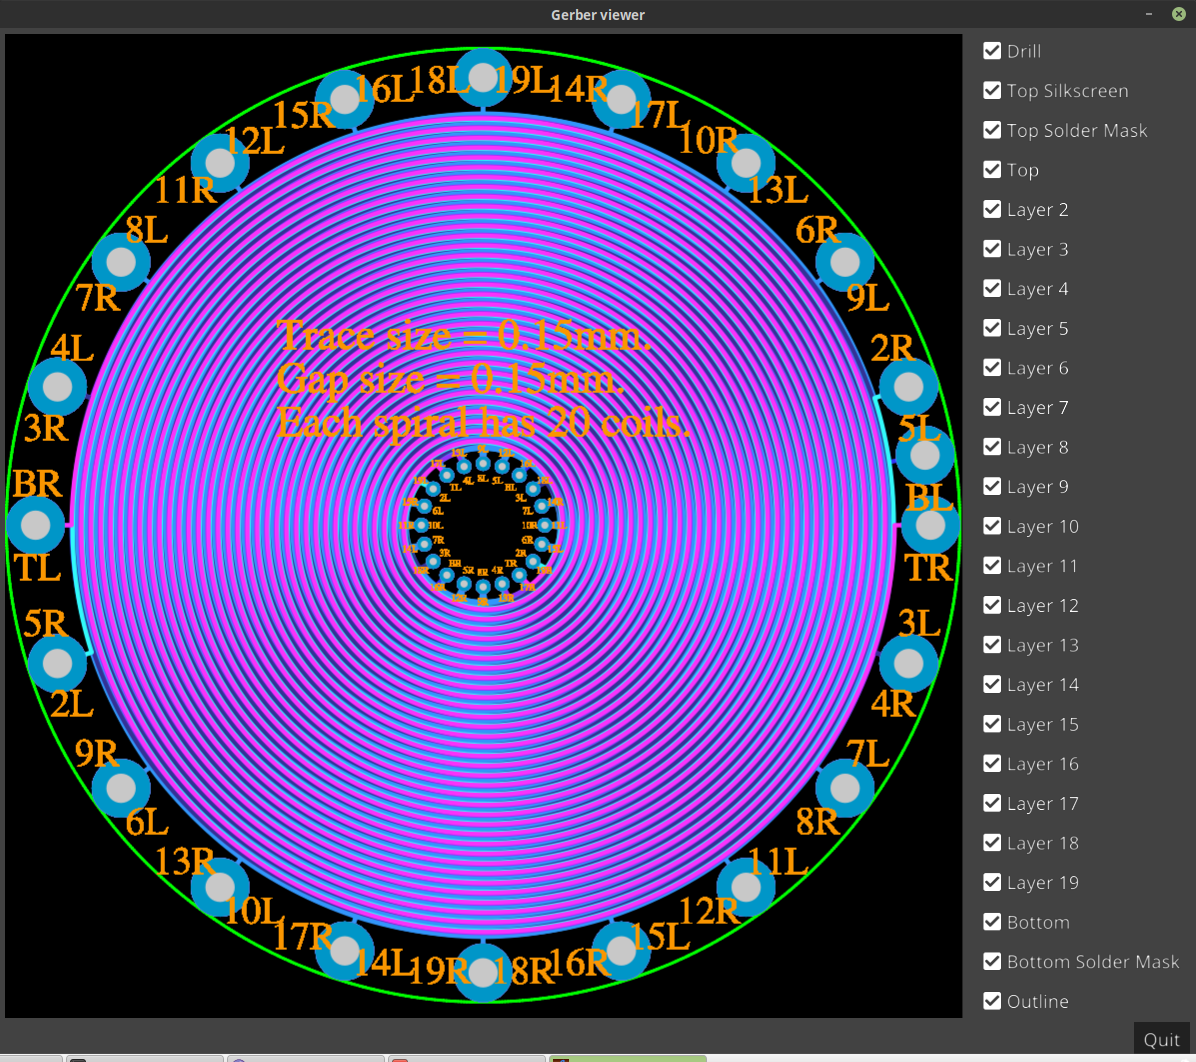
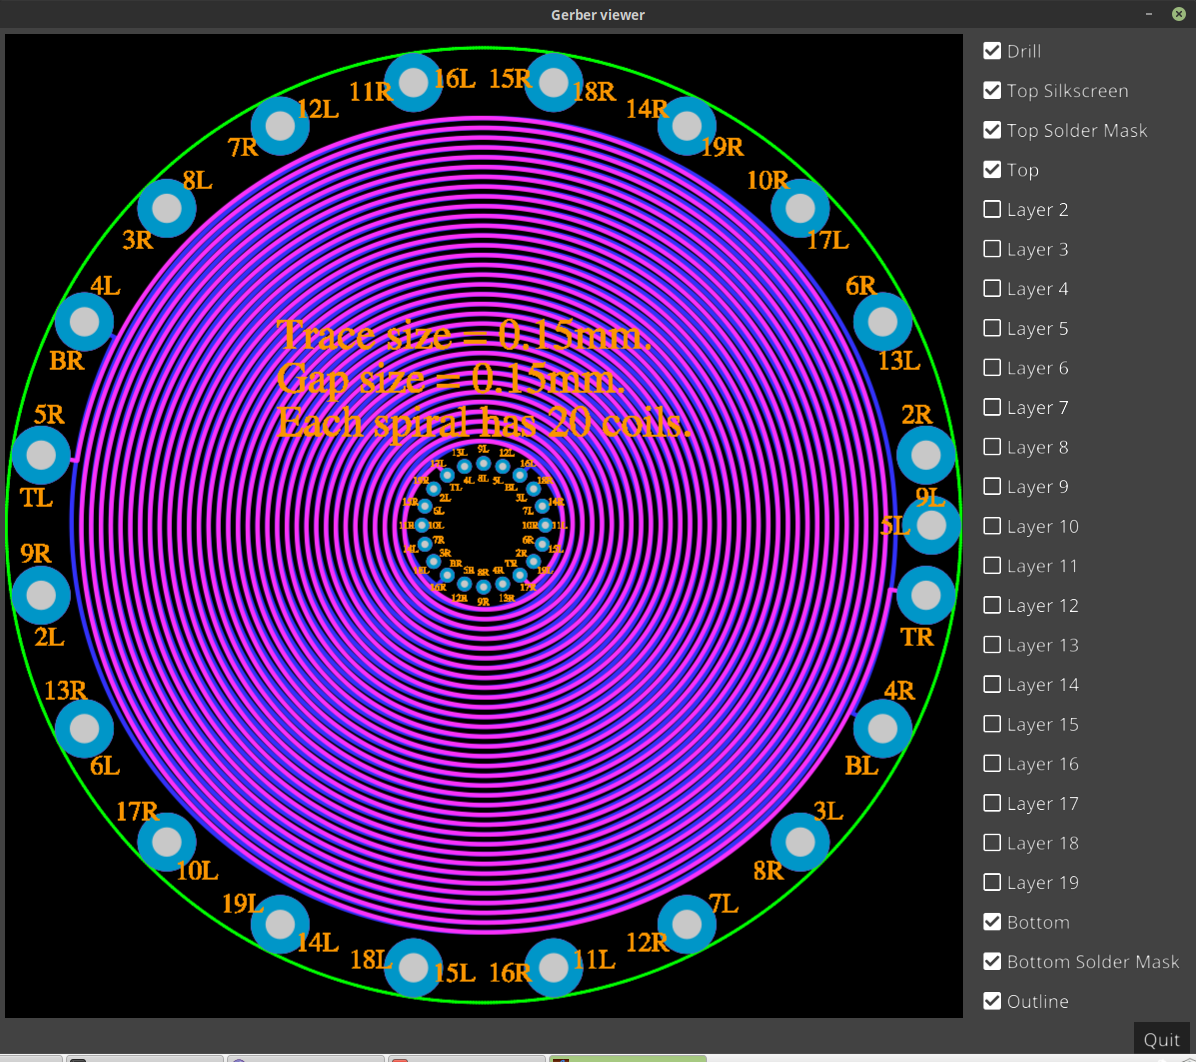
Fix icosi wiring

diff --git a/examples/icosi-bifilar-coil/main.go b/examples/icosi-bifilar-coil/main.go
@@ -94,7 +94,7 @@ func main() {
 			startLayerNR[n+3], layerNSpiralR[n+3], endLayerNR[n+3] = s.genSpiral(-1, -af*angleDelta, 0)
 			trimY := 0.0
 			if n+3 == 5 { // 5L
-				trimY = *trace + padD
+				trimY = 0.01
 			}
 			startLayerNL[n+3], layerNSpiralL[n+3], endLayerNL[n+3] = s.genSpiral(-1, math.Pi-af*angleDelta, trimY)
 		}
@@ -225,7 +225,7 @@ func main() {
 	if *fontName != "" {
 		pts := 36.0 * r / 139.18 // determined emperically
 		labelSize := pts * 4.0 / 18.0
-		outerLabelSize := 32.0 * r / 139.18 // determined emperically
+		outerLabelSize := 22.0 * r / 139.18 // determined emperically
 		message := fmt.Sprintf(messageFmt, *trace, *gap, *n)
 
 		innerLabel := func(label string) *TextT {
@@ -244,9 +244,7 @@ func main() {
 		}
 		outerLabel := func(label string) *TextT {
 			num := float64(outerHole[label])
-			if outerHole[label] != 20 {
-				num -= 0.5
-			}
+			num -= 0.5
 			r := outerR + 0.5**trace + *gap + 0.5*padD
 			x := r * math.Cos((0.3+num)*angleDelta)
 			y := r * math.Sin((0.3+num)*angleDelta)
@@ -254,12 +252,16 @@ func main() {
 		}
 		outerLabel2 := func(label string) *TextT {
 			num := float64(outerHole[label])
-			if outerHole[label] == 20 {
-				num = 0.3
-			} else {
-				num -= 0.5
-			}
+			num -= 0.5
 			r := outerR + 0.5**trace + *gap + 0.5*padD
+			x := r * math.Cos((-0.3+num)*angleDelta)
+			y := r * math.Sin((-0.3+num)*angleDelta)
+			return Text(x, y, 1.0, label, *fontName, outerLabelSize, &Center)
+		}
+		outerLabel3 := func(label string) *TextT {
+			num := float64(outerHole[label])
+			num = 0.3
+			r := outerR
 			x := r * math.Cos((-0.3+num)*angleDelta)
 			y := r * math.Sin((-0.3+num)*angleDelta)
 			return Text(x, y, 1.0, label, *fontName, outerLabelSize, &Center)
@@ -279,16 +281,16 @@ func main() {
 			innerLabel2("16R"), innerLabel2("16L"), innerLabel2("17R"), innerLabel2("17L"),
 			innerLabel2("18R"), innerLabel2("18L"), innerLabel2("19R"), innerLabel2("19L"),
 
-			outerLabel2("TR"), outerLabel("TL"), outerLabel2("BR"), outerLabel2("BL"),
+			outerLabel2("TR"), outerLabel("TL"), outerLabel("BR"), outerLabel2("BL"),
 			outerLabel("2R"), outerLabel("2L"), outerLabel("3R"), outerLabel("3L"),
-			outerLabel2("4R"), outerLabel2("4L"), outerLabel2("5R"), outerLabel2("5L"),
+			outerLabel("4R"), outerLabel2("4L"), outerLabel2("5R"), outerLabel3("5L"),
 			outerLabel("6R"), outerLabel("6L"), outerLabel("7R"), outerLabel("7L"),
 			outerLabel2("8R"), outerLabel2("8L"), outerLabel2("9R"), outerLabel2("9L"),
 			outerLabel("10R"), outerLabel("10L"), outerLabel("11R"), outerLabel("11L"),
 			outerLabel2("12R"), outerLabel2("12L"), outerLabel2("13R"), outerLabel2("13L"),
 			outerLabel("14R"), outerLabel("14L"), outerLabel("15R"), outerLabel("15L"),
 			outerLabel2("16R"), outerLabel2("16L"), outerLabel2("17R"), outerLabel2("17L"),
-			outerLabel("18R"), outerLabel("18L"), outerLabel2("19R"), outerLabel2("19L"),
+			outerLabel2("18R"), outerLabel2("18L"), outerLabel2("19R"), outerLabel2("19L"),
 
 			// Text(-0.5*r, -0.4*r, 1.0, message2, *fontName, pts, &Center),
 			// Text(0.5*r, -0.4*r, 1.0, message3, *fontName, pts, &Center),
@@ -320,7 +322,7 @@ type spiral struct {
 
 func newSpiral() *spiral {
 	startAngle := 7.71 * math.Pi
-	endAngle := 2.0*math.Pi + float64(*n)*2.0*math.Pi + 0.15*math.Pi
+	endAngle := 2.0*math.Pi + float64(*n)*2.0*math.Pi
 	p1 := genPt(1.0, endAngle, *trace*0.5, 0)
 	size := 2 * p1.Length()
 	p2 := genPt(1.0, endAngle, *trace*0.5, math.Pi)
@@ -336,10 +338,15 @@ func newSpiral() *spiral {
 
 func (s *spiral) genSpiral(xScale, offset, trimY float64) (startPt Pt, pts []Pt, endPt Pt) {
 	halfTW := *trace * 0.5
-	endAngle := s.endAngle - 4.0*math.Pi/nlayers
-	if trimY < 0 { // Only for layer2SpiralL - extend another Pi/2
-		endAngle += 0.5 * math.Pi
+	var endAngle float64
+	if xScale < 0 { // odd
+		endAngle = s.endAngle + 3.0*math.Pi/nlayers
+	} else { // even
+		endAngle = s.endAngle - 1.0*math.Pi/nlayers
 	}
+	// if trimY < 0 { // Only for layer2SpiralL - extend another Pi/2
+	// 	endAngle += 0.5 * math.Pi
+	// }
 	steps := int(0.5 + (endAngle-s.startAngle) / *step)
 	for i := 0; i < steps; i++ {
 		angle := s.startAngle + *step*float64(i)
